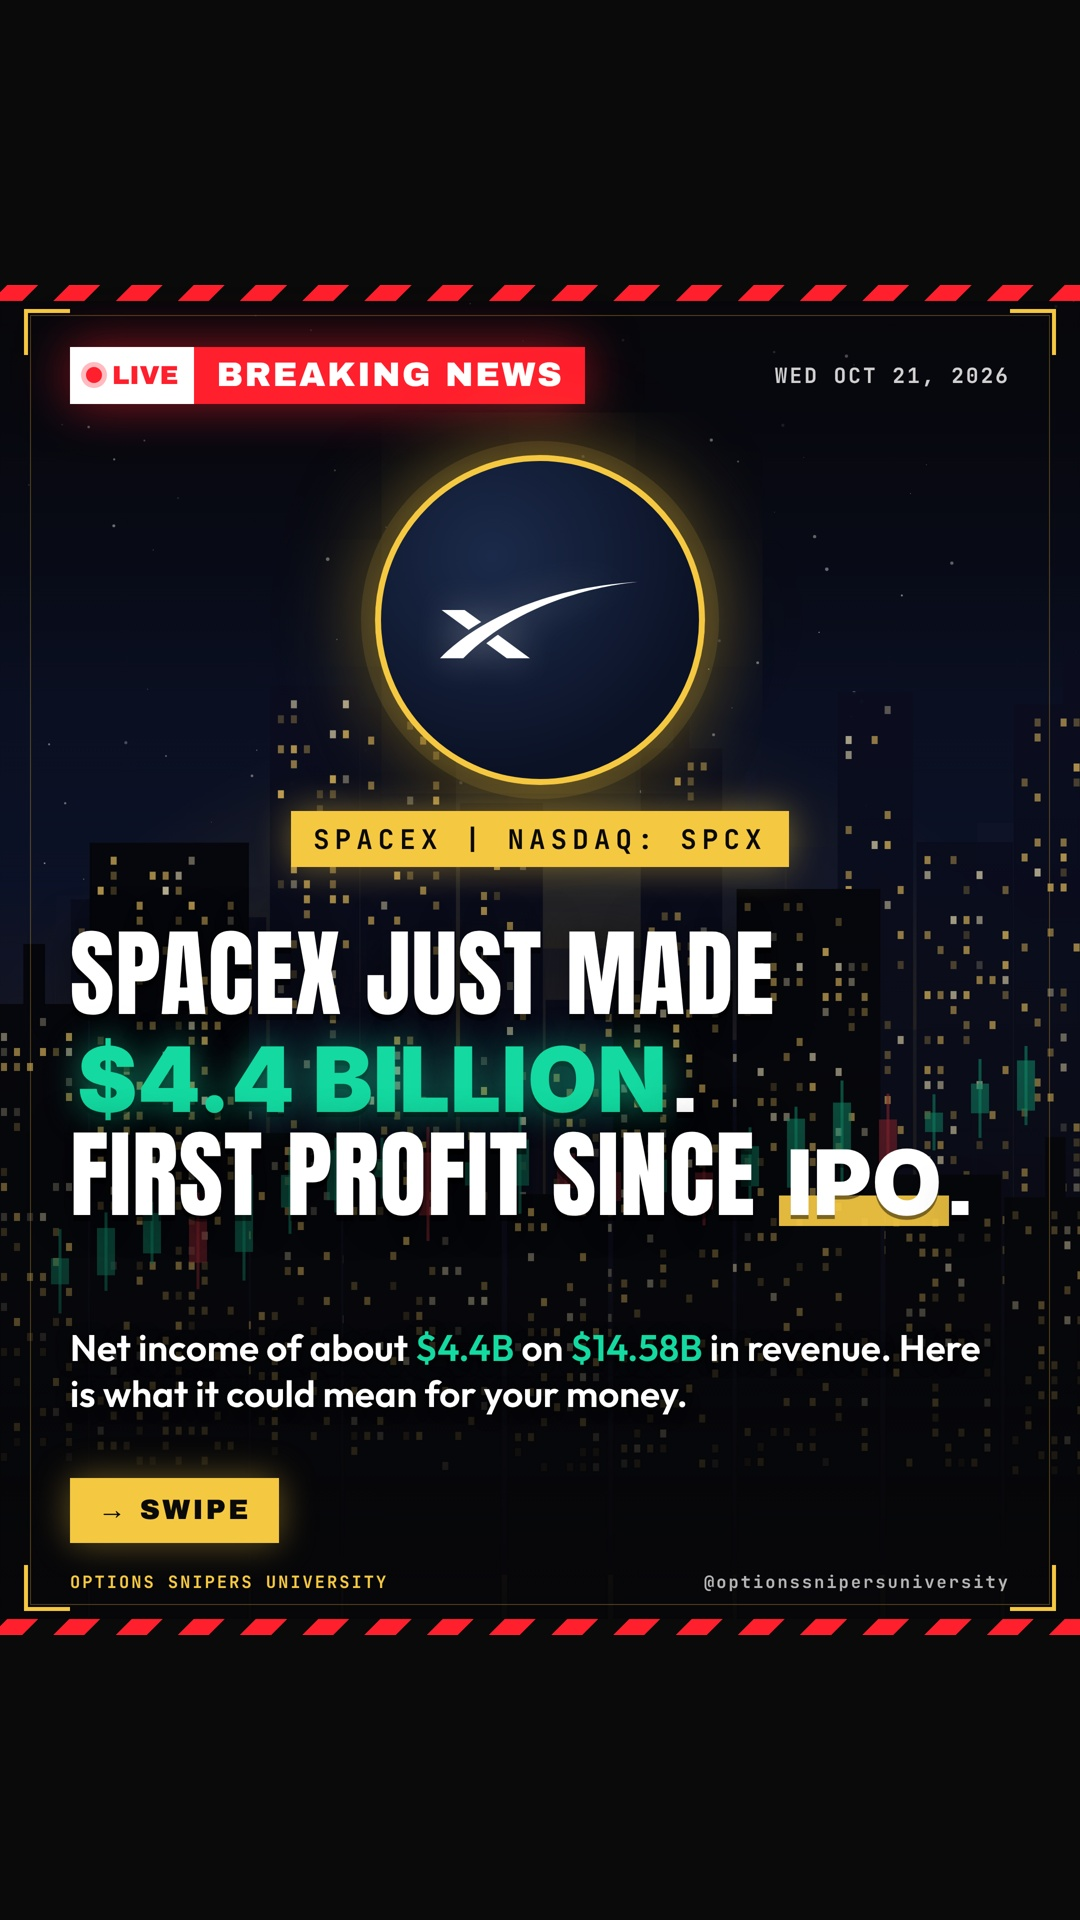
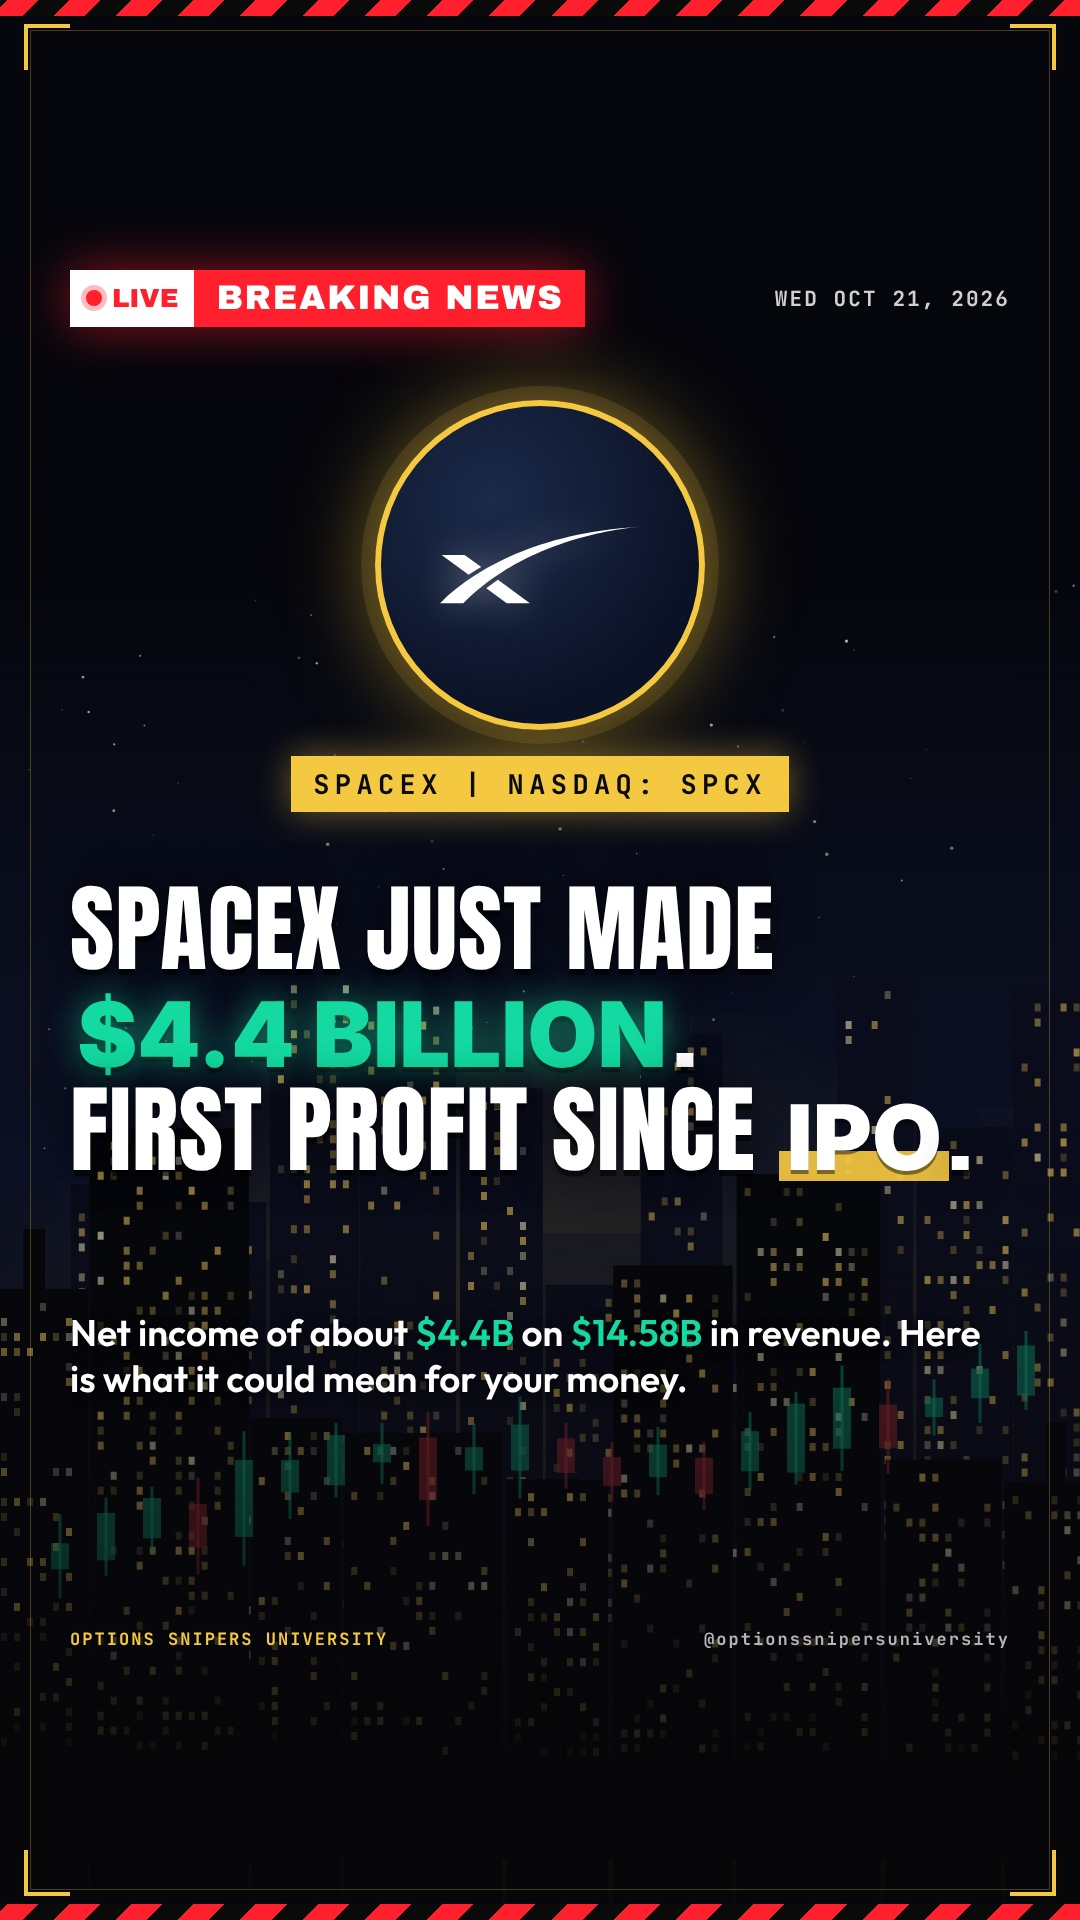
Full-bleed 9:16 story 2026-10-21 + render-story.js
Claude-Session: https://claude.ai/code/session_01SQxdha4vQ2P1WsYBzv11aq

diff --git a/news-kit/render-story.js b/news-kit/render-story.js
@@ -1,0 +1,18 @@
+// usage: node render-story.js out.png  -> 1080x1920 full-bleed 9:16 IG story from cover.html
+const { chromium } = require('playwright'); const path = require('path');
+(async()=>{const b=await chromium.launch({executablePath:'/opt/pw-browsers/chromium',args:['--no-sandbox']});
+const p=await b.newPage({viewport:{width:1080,height:1920},deviceScaleFactor:1});
+await p.goto('file://'+path.join(__dirname,'cover.html'));await p.evaluate(()=>document.fonts.ready);
+await p.addStyleTag({content:`
+html,body{height:1920px;background:#05060d}
+#bg{top:570px;height:1350px}
+.shade{background:linear-gradient(180deg,rgba(7,7,10,.45) 0%,rgba(7,7,10,.1) 25%,rgba(7,7,10,.35) 60%,rgba(7,7,10,.94) 100%)}
+.top{top:270px}
+.logoWrap{top:400px}
+.hl{top:880px}
+.sub{top:1310px}
+.swipe{display:none}
+.foot{bottom:270px}
+`});
+await p.waitForTimeout(300);
+await p.screenshot({path:process.argv[2]});await b.close();})();
